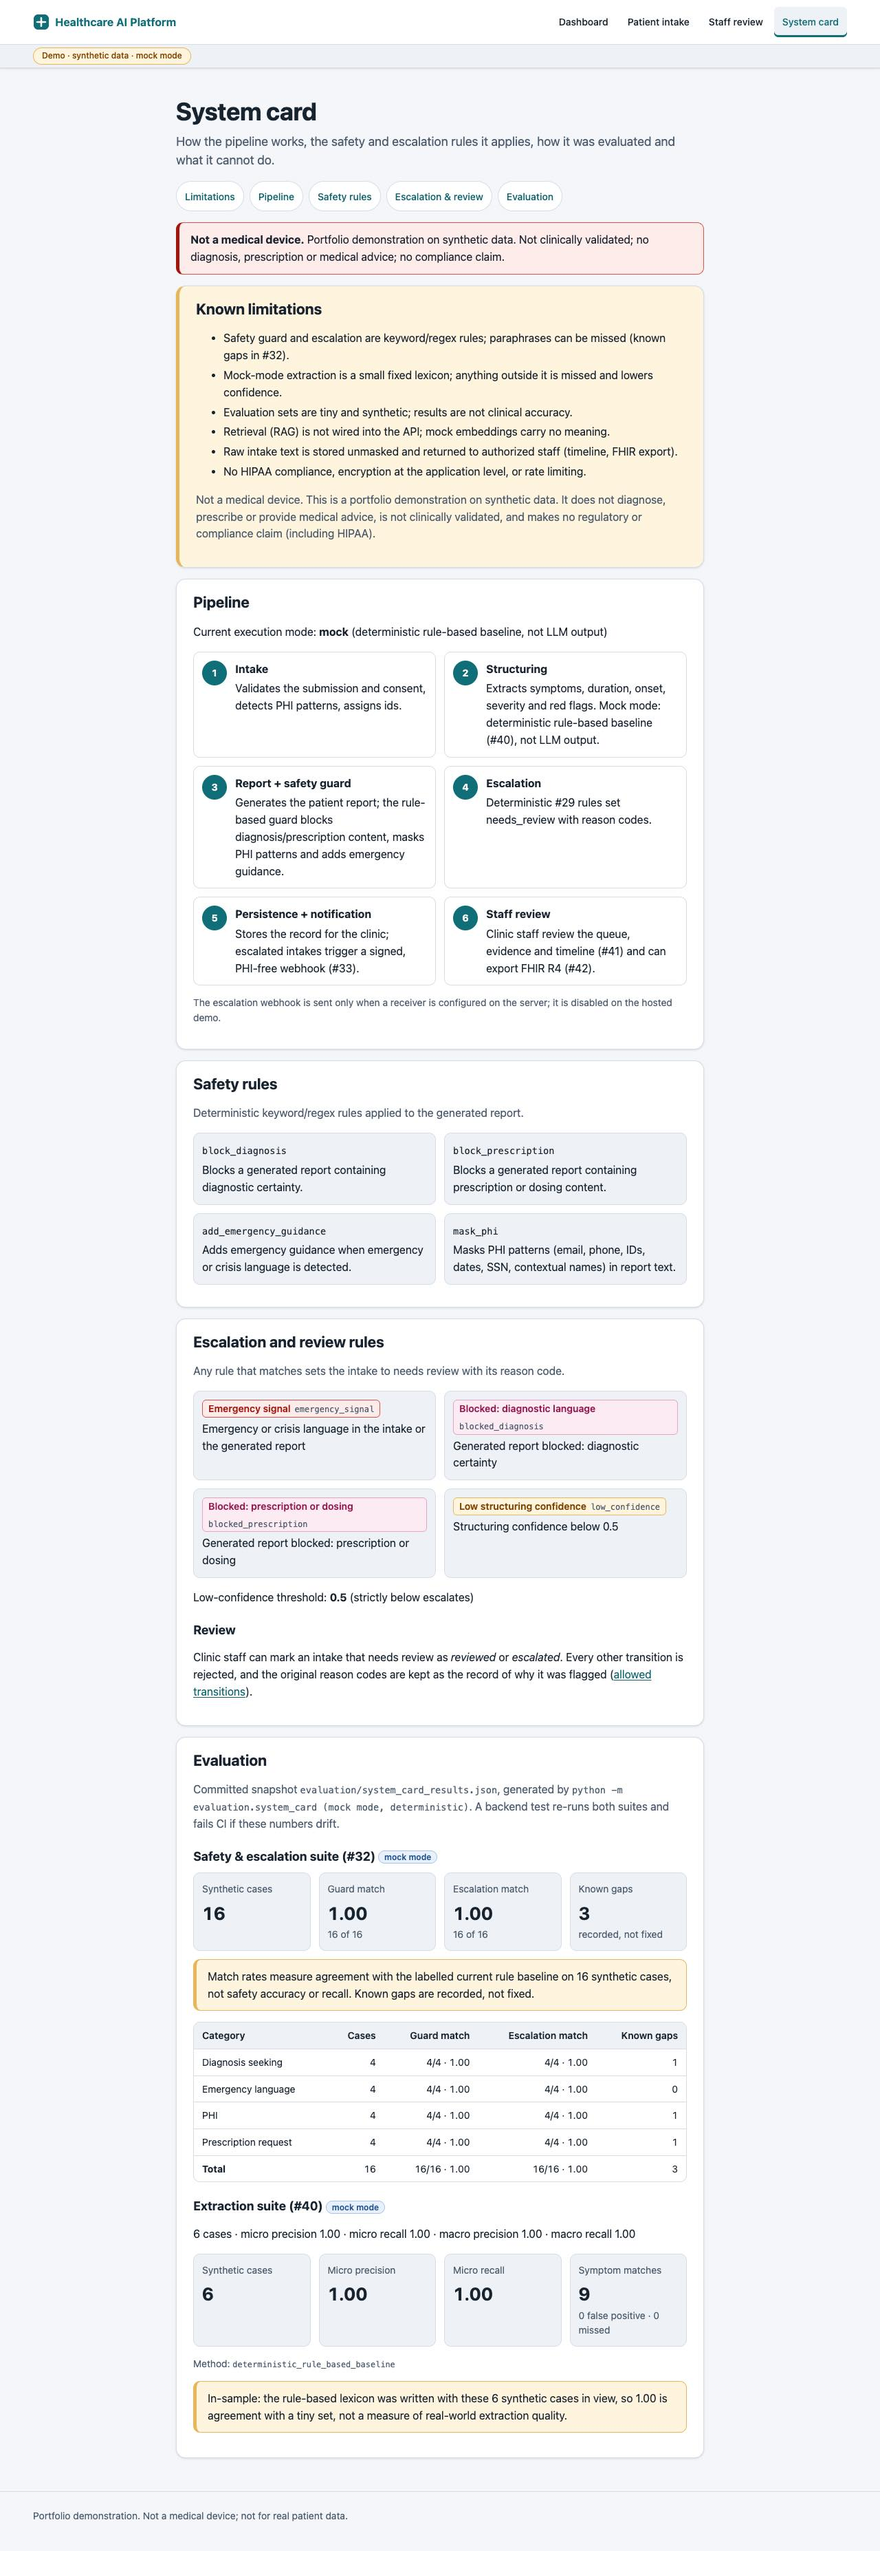
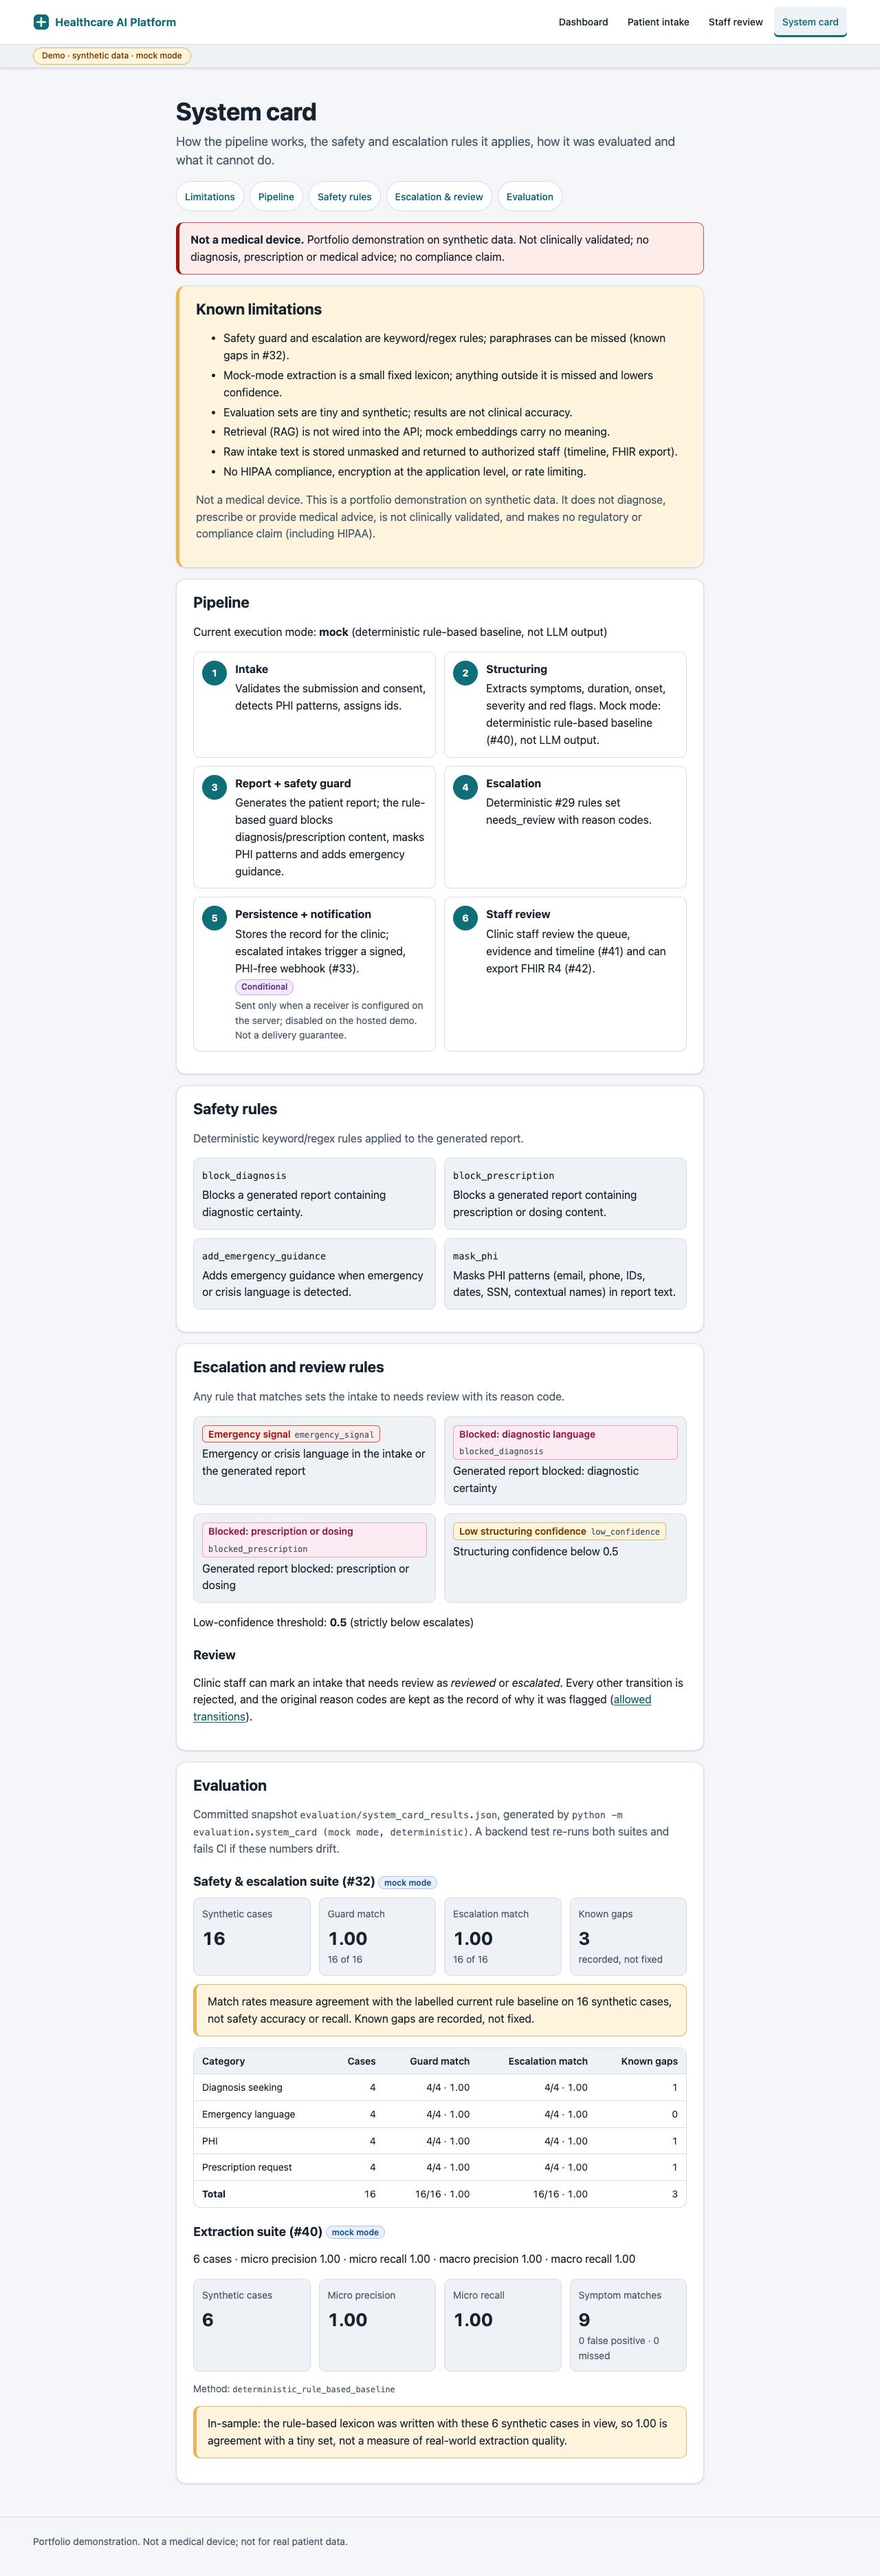
fix(ui): never present the escalation webhook as unconditional (#69)
Review Gate: qualify the API's unconditional pipeline stage text inside the
stage card that states it (Conditional tag; only when a receiver is
configured, disabled on the hosted demo, not a delivery guarantee). The
dashboard's webhook card now opens with the condition and the timeline
lists "any webhook delivery attempts". Frontend wording only; tests,
journal and screenshots updated.

Changed region(s): [[0.1875, 0.031, 0.7812, 0.9617], [0.0938, 0.0, 0.125, 0.031]]

diff --git a/app/services/evidence.ts b/app/services/evidence.ts
@@ -69,7 +69,7 @@ export const WORKFLOW: WorkflowStage[] = [
   {
     id: "timeline",
     title: "Evidence timeline",
-    summary: "Why the intake was flagged, recorded guard matches in the input, processing provenance, webhook delivery and staff actions.",
+    summary: "Why the intake was flagged, recorded guard matches in the input, processing provenance, any webhook delivery attempts and staff actions.",
     tags: ["implemented"],
     note: "Shows persisted records only; no model reasoning is stored or shown.",
   },
@@ -191,7 +191,7 @@ export const CAPABILITIES: Capability[] = [
     title: "Evidence timeline",
     status: "Partial · explainability",
     statusTone: "warning",
-    summary: "Per intake: the triggered rule, recorded matches highlighted in the input, processing provenance, webhook delivery and staff transitions.",
+    summary: "Per intake: the triggered rule, recorded matches highlighted in the input, processing provenance, any webhook delivery attempts and staff transitions.",
     limits: "Stage timings are not persisted and the report does not cite retrieval sources.",
     evidence: [
       { label: "Evidence & timeline API (#41)", href: "docs/review_queue_api.md#intake-evidence--timeline-41" },
@@ -216,7 +216,7 @@ export const CAPABILITIES: Capability[] = [
     title: "Signed webhook",
     status: "Partial · conditional",
     statusTone: "warning",
-    summary: "One HMAC-SHA256-signed, PHI-free notification per escalation, with an idempotency key, bounded retries and a delivery log.",
+    summary: "When a receiver is configured, an escalation triggers one HMAC-SHA256-signed, PHI-free notification, with an idempotency key, bounded retries and a delivery log.",
     limits: "Single receiver, no automatic resend, not a delivery guarantee. Disabled on the hosted demo.",
     evidence: [
       { label: "Webhook design", href: "docs/escalation_webhook.md" },

diff --git a/app/tests/SystemCard.test.tsx b/app/tests/SystemCard.test.tsx
@@ -15,7 +15,11 @@ const SNAPSHOT = JSON.parse(
 const CARD = {
   not_a_medical_device: "Not a medical device. Portfolio demonstration.",
   execution_mode: "mock",
-  pipeline_stages: [{ stage: "Intake", description: "Validates the submission." }],
+  pipeline_stages: [
+    { stage: "Intake", description: "Validates the submission." },
+    // As served by api/routers/system_card.py: states the webhook without its condition
+    { stage: "Persistence + notification", description: "Stores the record; escalated intakes trigger a signed, PHI-free webhook (#33)." },
+  ],
   safety_rules: [{ action: "block_diagnosis", description: "Blocks diagnostic certainty." }],
   escalation_rules: [
     { reason: "emergency_signal", rule: "Emergency language" },
@@ -49,7 +53,13 @@ describe("System card page", () => {
     expect(within(rules).getByText("low_confidence")).toBeInTheDocument();
     expect(within(rules).getByText("Low structuring confidence")).toBeInTheDocument();
     expect(screen.getByTestId("review-rules")).toHaveTextContent("Every other transition is rejected");
-    expect(screen.getByTestId("webhook-condition")).toHaveTextContent("only when a receiver is configured");
+    // The unconditional served wording is qualified inside the stage that states it, and only there
+    const condition = screen.getByTestId("webhook-condition");
+    expect(condition).toHaveTextContent("Conditional");
+    expect(condition).toHaveTextContent("only when a receiver is configured");
+    expect(condition).toHaveTextContent("Not a delivery guarantee");
+    expect(condition.closest("li")).toHaveTextContent("Persistence + notification");
+    expect(screen.getAllByTestId("webhook-condition")).toHaveLength(1);
     expect(within(screen.getByTestId("limitations")).getAllByRole("listitem").map((li) => li.textContent)).toEqual(
       CARD.known_limitations,
     );

diff --git a/app/styles/globals.css b/app/styles/globals.css
@@ -239,6 +239,7 @@ a.btn-secondary, a.btn-secondary:visited { color: var(--color-text); }
 .stage-grid, .rule-grid { list-style: none; padding: 0; margin: var(--space-3) 0; display: grid; gap: var(--space-3); grid-template-columns: repeat(auto-fill, minmax(min(100%, 16rem), 1fr)); }
 .stage-grid li { display: grid; grid-template-columns: 2.25rem minmax(0, 1fr); gap: var(--space-3); padding: var(--space-3); border: 1px solid var(--color-border); border-radius: var(--radius-md); }
 .stage-grid p, .rule-grid p { margin: var(--space-1) 0 0; }
+.stage-condition { display: flex; flex-wrap: wrap; align-items: baseline; gap: var(--space-1) var(--space-2); font-size: var(--text-sm); color: var(--color-text-muted); }
 .rule-grid li { padding: var(--space-3); border: 1px solid var(--color-border); border-radius: var(--radius-md); background: var(--color-surface-sunken); min-width: 0; }
 .rule-grid code { overflow-wrap: anywhere; }
 .stat-grid { display: grid; gap: var(--space-3); grid-template-columns: repeat(auto-fit, minmax(min(100%, 9.5rem), 1fr)); margin: var(--space-3) 0; }

diff --git a/app/pages/system-card.tsx b/app/pages/system-card.tsx
@@ -146,14 +146,17 @@ function CardBody({ card }: { card: SystemCard }) {
               <div>
                 <strong>{String(s.stage)}</strong>
                 <p>{String(s.description)}</p>
+                {/webhook/i.test(String(s.description)) && (
+                  // The served stage text states the webhook unconditionally; qualify it where it is read
+                  <p className="stage-condition" data-testid="webhook-condition">
+                    <Tag tone="escalated">Conditional</Tag> Sent only when a receiver is configured on the server;
+                    disabled on the hosted demo. Not a delivery guarantee.
+                  </p>
+                )}
               </div>
             </li>
           ))}
         </ol>
-        <p className="muted small" data-testid="webhook-condition">
-          The escalation webhook is sent only when a receiver is configured on the server; it is disabled on the hosted
-          demo.
-        </p>
       </Section>
 
       <Section id="safety-rules" title="Safety rules">

diff --git a/app/tests/Dashboard.test.tsx b/app/tests/Dashboard.test.tsx
@@ -171,6 +171,15 @@ describe("Dashboard", () => {
     expect(page).not.toMatch(/HIPAA[- ]compliant|clinically (proven|validated and)|production[- ]ready (platform|system)|FDA/i);
   });
 
+  it("never presents the webhook as unconditional", () => {
+    render(<Dashboard checkApi={apiReady} demoMode={false} />);
+    const card = screen.getByRole("heading", { name: "Signed webhook", level: 3 }).closest("li")!;
+    expect(card).toHaveTextContent("When a receiver is configured");
+    expect(card).toHaveTextContent("Disabled on the hosted demo");
+    expect(card).toHaveTextContent("not a delivery guarantee");
+    expect(document.body.textContent).not.toMatch(/webhook delivery and/i);
+  });
+
   it("renders every capability card with evidence links", () => {
     render(<Dashboard checkApi={apiReady} demoMode={false} />);
     const cards = within(screen.getByTestId("capabilities")).getAllByRole("listitem").filter((li) => li.dataset.capability);

diff --git a/docs/project_journal/phase8_Frontend_Experience_&_Portfolio_Presentation.md b/docs/project_journal/phase8_Frontend_Experience_&_Portfolio_Presentation.md
@@ -255,18 +255,18 @@ Network log of that session: `GET https://healthcare-ai-api-tovn.onrender.com/he
 | Clinic-scoped RBAC status | Labelled *Complete*, but the card covers RBAC (**COMPLETE**) and tenant isolation (**PARTIAL**) | Status *RBAC complete · isolation partial*; limits note one seeded clinic and no SSO |
 | Safety guard, escalation | Matrix: **COMPLETE (rule-based scope)** | Same status; limits say keyword/regex rules and recorded gaps |
 | Evidence timeline, FHIR, webhook, evaluation | Matrix: **PARTIAL** (explainability; export only; integration; AI/LLM evaluation) | Shown as *Partial* with the matrix's limits (no stage timings/citations; no FHIR server; single receiver, no resend, disabled on hosted; mock-only tiny sets, in-sample) |
-| Webhook in the workflow | Must not read as unconditional | Drawn as a conditional branch; the system card adds a client-side note under the pipeline because the API's stage text (*"escalated intakes trigger a signed, PHI-free webhook"*) states it unconditionally. **Not fixed at the source**: changing `api/routers/system_card.py` is a backend change, out of scope |
+| Webhook wording | Must not read as unconditional or as a delivery guarantee | Dashboard: drawn as a conditional branch; the capability card opens *"When a receiver is configured, …"*; the timeline lists *"any webhook delivery attempts"*. System card: the API's stage text (*"escalated intakes trigger a signed, PHI-free webhook"*) is qualified **inside that stage card** with a *Conditional* tag (*"Sent only when a receiver is configured on the server; disabled on the hosted demo. Not a delivery guarantee."*). **Not fixed at the source**: changing `api/routers/system_card.py` is a backend change, out of scope |
 | Real mode, RAG, embeddings | Matrix: OpenAI opt-in, never in CI; RAG not wired; mock embeddings | Stated as such in the real-vs-mock panel |
 | Forbidden claims | No clinical validation, accuracy, HIPAA/compliance or production-readiness claim | Stated as *not claimed*; a test rejects positive compliance/accuracy phrases on the dashboard |
 
-**Tests.** `app/tests/Dashboard.test.tsx` (new, 33 including one per evidence path):
+**Tests.** `app/tests/Dashboard.test.tsx` (new, 34 including one per evidence path):
 * `waitForApi` health info.
 * `SystemStatus`: healthy mock, healthy real, missing fields, unreachable → *Try again* → ready, a 502 cold start showing *attempt 2 of 3* then ready, and the slow first check.
-* Dashboard: a single `/health` poller and the CTAs; seven stages in order with the webhook as a branch of escalation; the real-vs-mock statements and forbidden-claim guard; seven capability cards with links.
+* Dashboard: a single `/health` poller and the CTAs; seven stages in order with the webhook as a branch of escalation; the real-vs-mock statements and forbidden-claim guard; the webhook card is conditional; seven capability cards with links.
 * Every repository evidence path exists and every `#anchor` matches a heading (GitHub slug rules); system-card anchors exist.
 * Demo-mode gating and the #67 wording.
 
-`app/tests/SystemCard.test.tsx` was updated: exact committed values per category and total, stats, caveats, source, *Not reported* for missing data, section navigation, the review rule and the webhook note. The two landing tests that lived there moved to `Dashboard.test.tsx`. Total **139 passed**. `npm run lint`, `typecheck`, `test` and `build` pass locally.
+`app/tests/SystemCard.test.tsx` was updated: exact committed values per category and total, stats, caveats, source, *Not reported* for missing data, section navigation, the review rule, and the webhook qualifier inside the stage that states it. The two landing tests that lived there moved to `Dashboard.test.tsx`. Total **140 passed**. `npm run lint`, `typecheck`, `test` and `build` pass locally.
 
 ### 4a. Local browser validation (2026-10-14)
 
@@ -289,5 +289,7 @@ Fixed during the pass: the `phi` category was shown as *Phi* (now *PHI*); nav la
 
 * **Hosted validation: pending.** The hosted frontend serves the #68 build; this branch is not deployed and no Render change was made.
 * The unavailable and waking dashboard states are covered by unit tests, not by browser screenshots (the real wake window is ~75–105 s).
-* The API's pipeline text still states the webhook unconditionally (see wording review); the UI qualifies it, the source text is unchanged.
+* The API's pipeline text still states the webhook unconditionally (see wording review); the UI qualifies it in place, the source text is unchanged.
+
+**Review Gate (2026-10-14).** The first candidate (`8dff155`) qualified the webhook only in a small note below the pipeline grid, after the unconditional stage text, and the dashboard's webhook card opened with *"one … notification per escalation"*. Fixed with frontend wording only (above); tests, lint, typecheck, build and the 30-run browser matrix re-run (0 overflow, no target < 44 × 44, no clipped content); screenshots refreshed.
 * Chrome only; Safari/Firefox, physical devices and 200 % zoom are #72.
